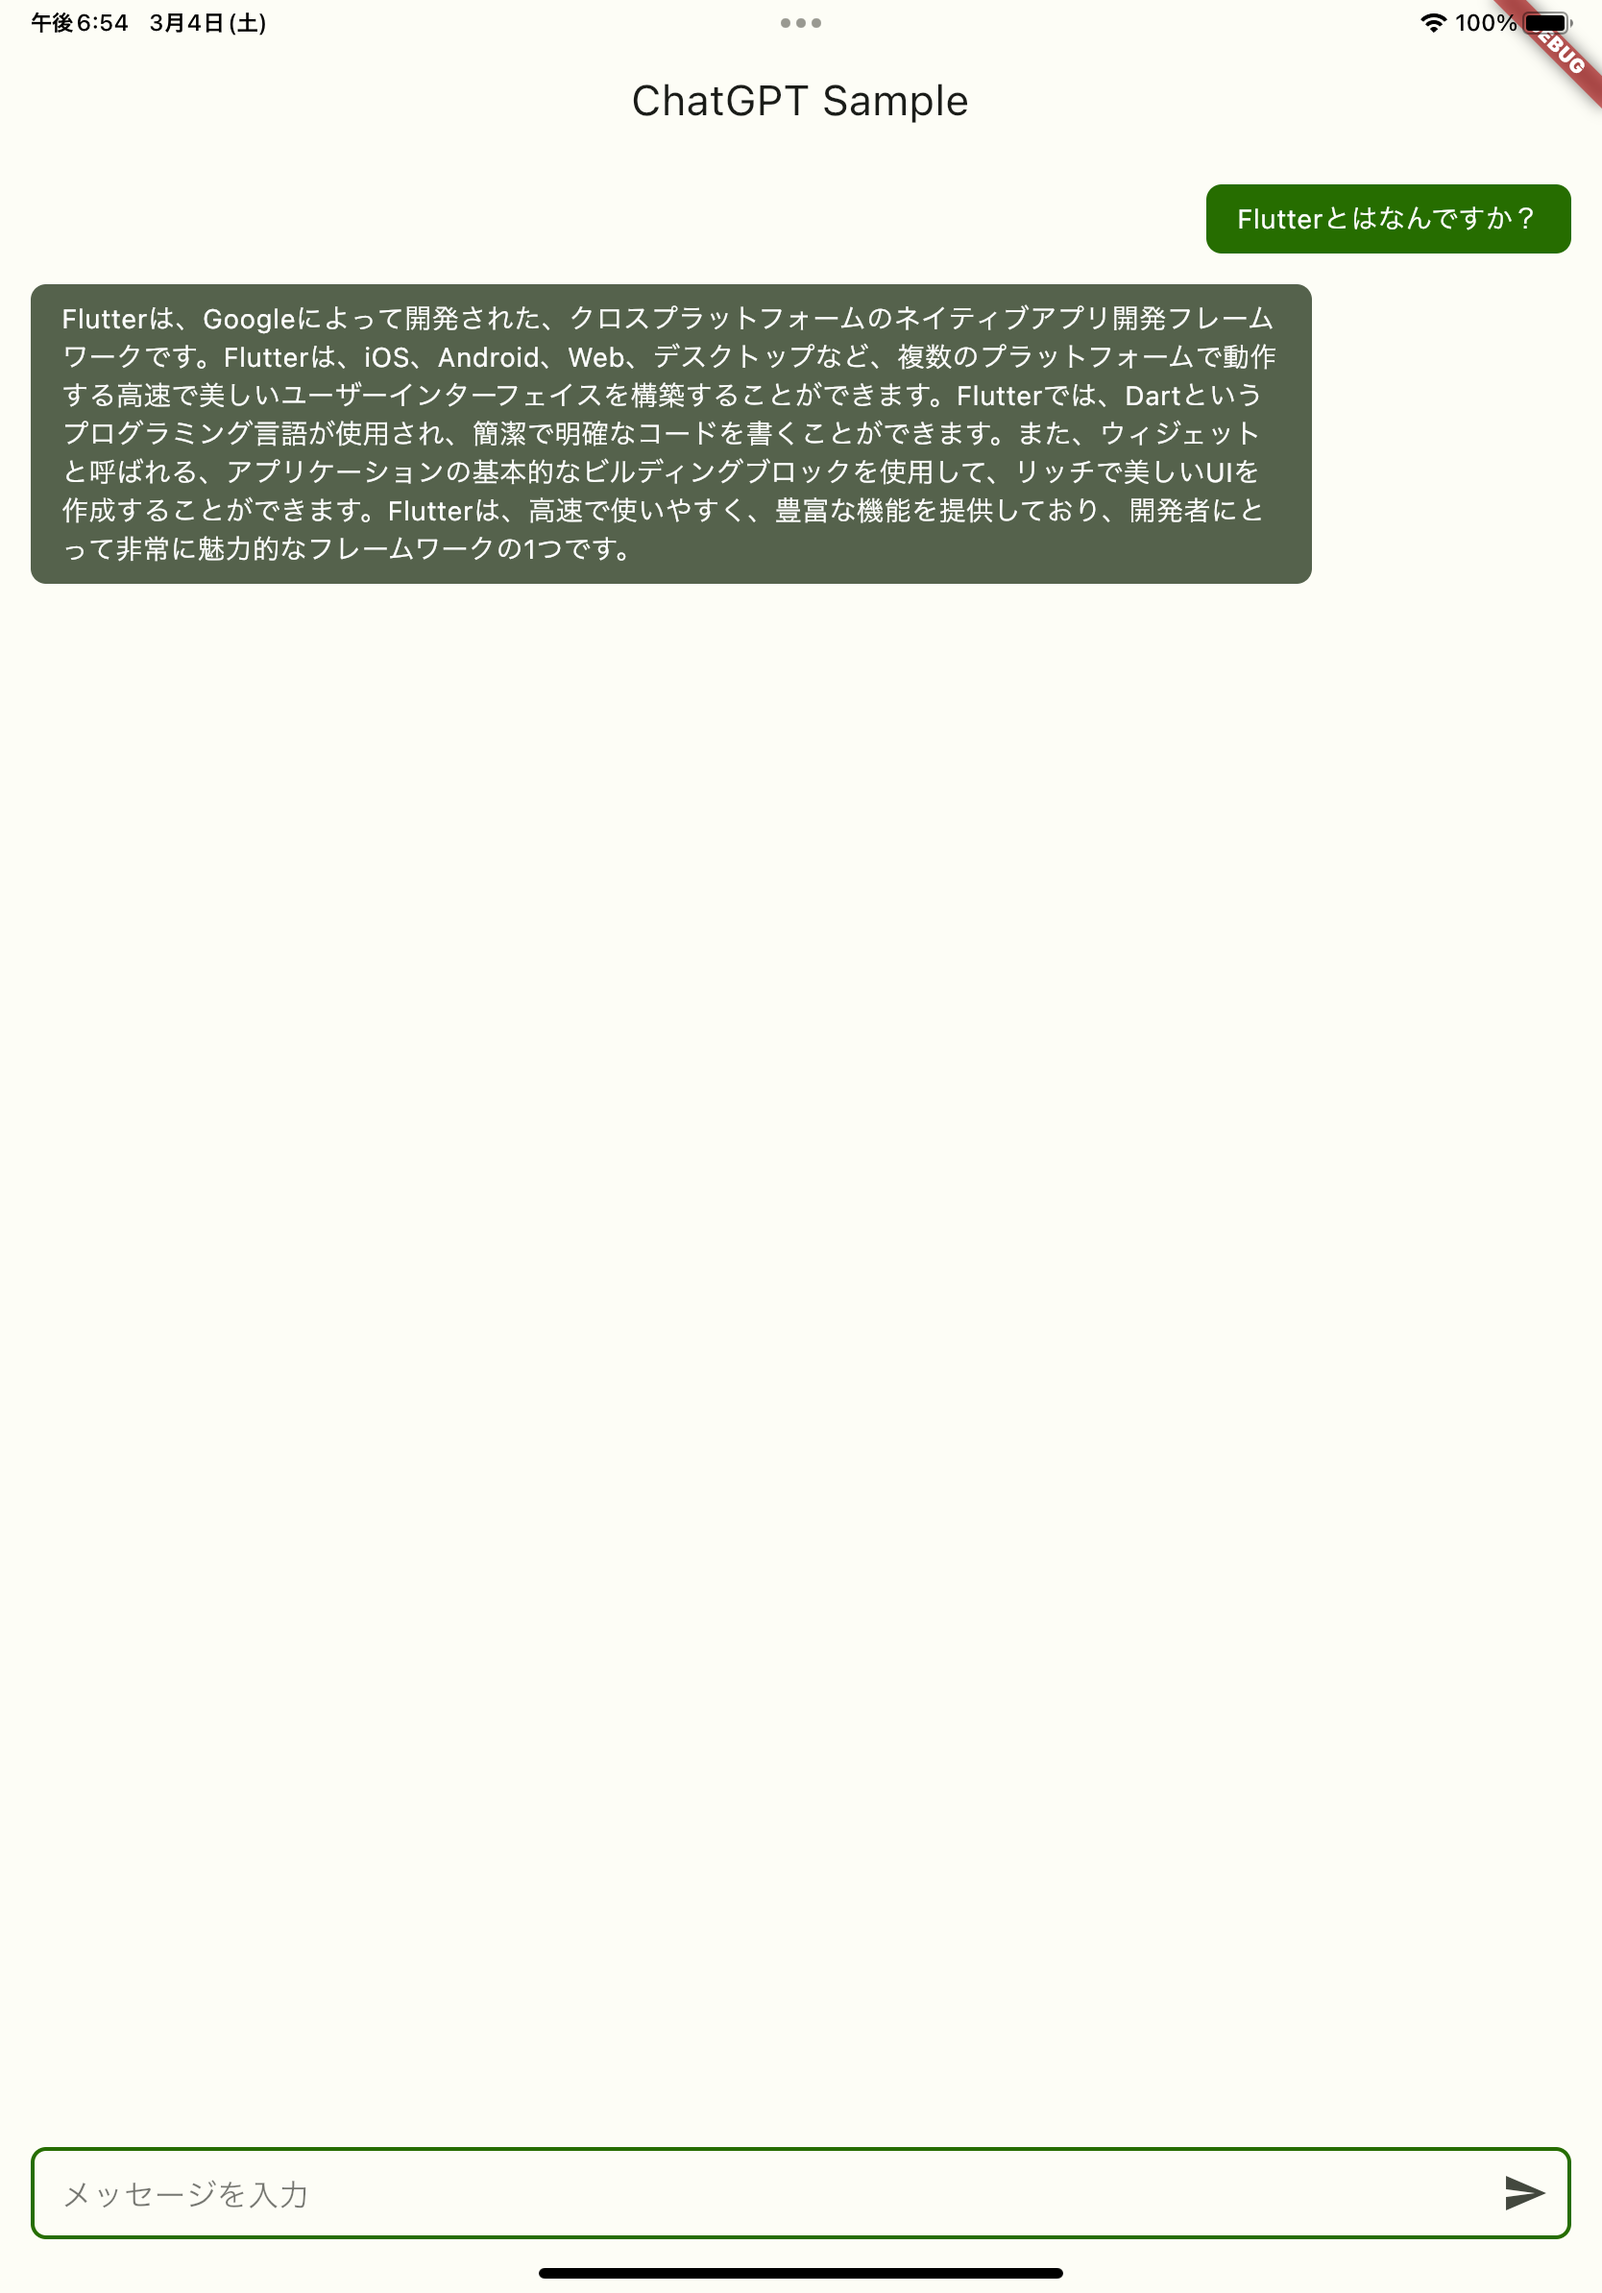
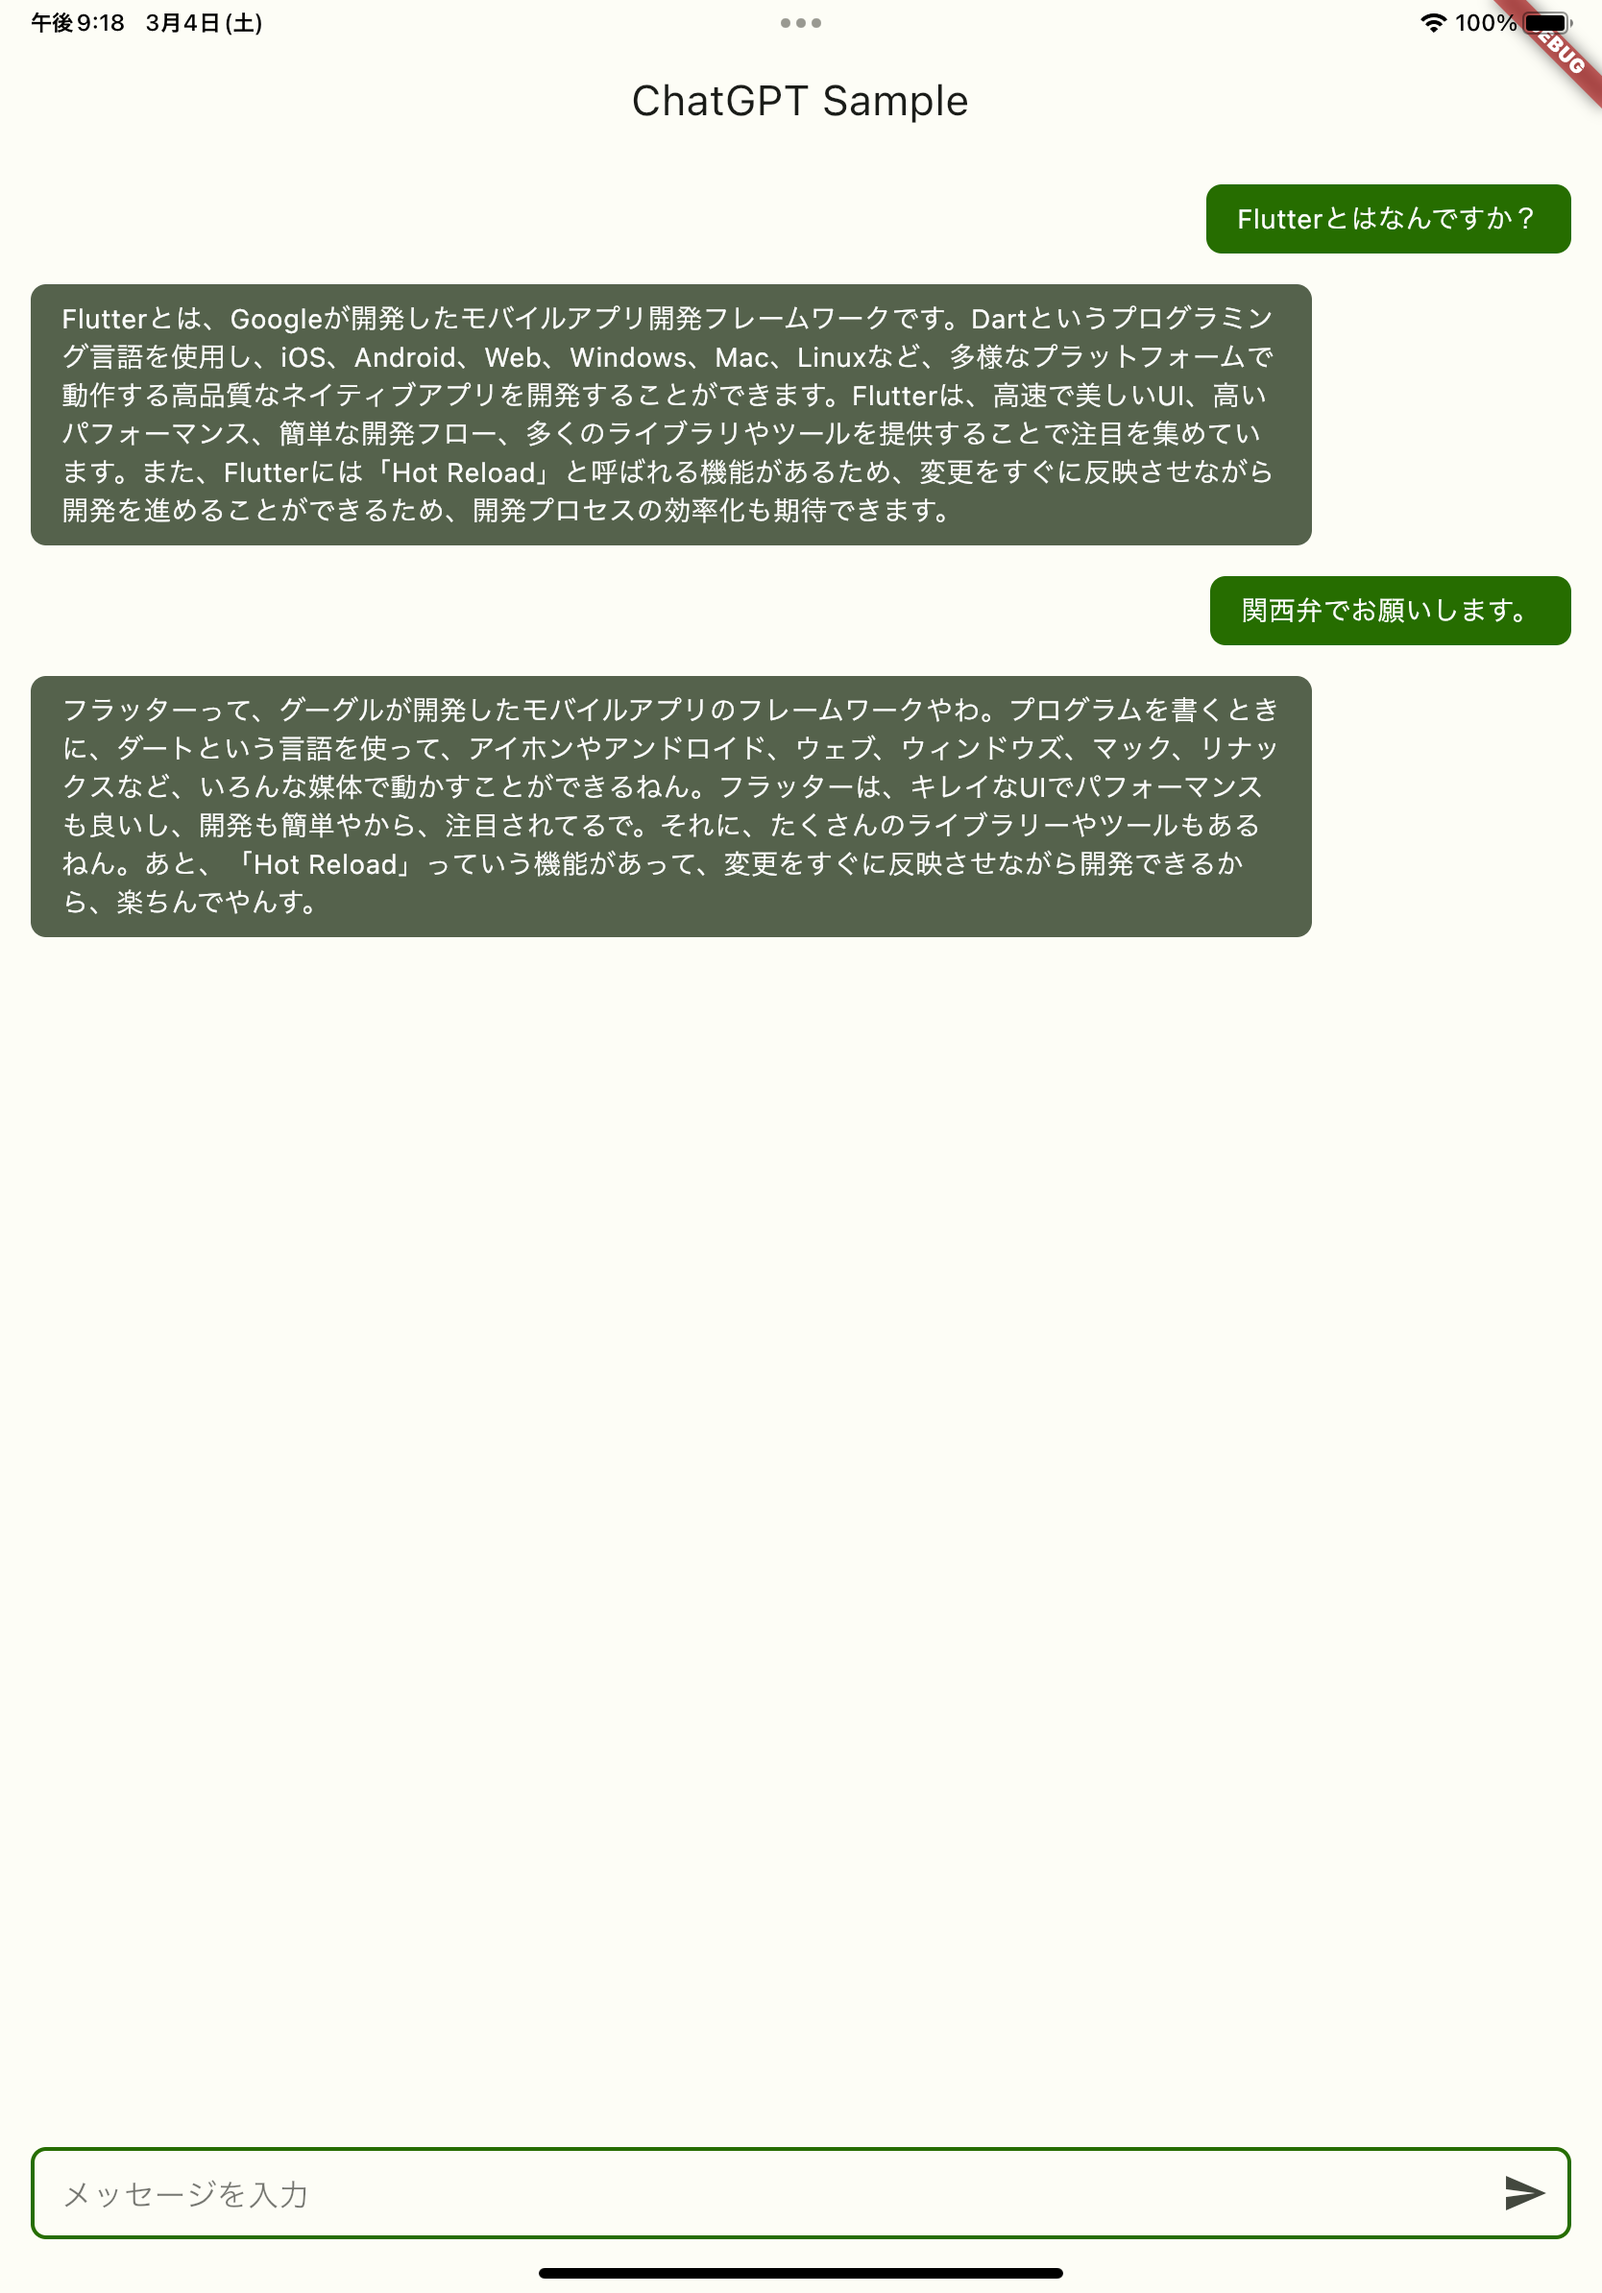
🚀

Changed region(s): [[0.0, 0.124, 0.9976, 0.4338], [0.0935, 0.0, 0.1559, 0.031]]

diff --git a/articles/25c310b2dad300.md b/articles/25c310b2dad300.md
@@ -76,6 +76,9 @@ OpenAIChatCompletionModel chatCompletion = await OpenAI.instance.chat.create(
 ```
 
 ### チャットUI作ってみた
+おなじみのriverpodを使って画面を作ります。
+
+#### Provider実装
 riverpodを使って、ChatGPTとやりとりしたメッセージのリストを状態にもち、新しいメッセージを送れるNotifierProviderを作ります。
 
 実装は以下のようになります。
@@ -118,6 +121,7 @@ class Messages extends _$Messages {
 }
 ```
 
+#### Widget実装
 先程のProviderを使うWidgetを作ります。
 
 ざっくり使用
@@ -151,6 +155,8 @@ class HomeScreen extends HookConsumerWidget {
             // メッセージ一覧
             Expanded(
               child: ListView.separated(
+                keyboardDismissBehavior:
+                    ScrollViewKeyboardDismissBehavior.onDrag,
                 padding: const EdgeInsets.symmetric(horizontal: 16),
                 itemCount: messages.length,
                 itemBuilder: (context, index) {
@@ -284,9 +290,15 @@ class HomeScreen extends HookConsumerWidget {
 }
 ```
 
+
+#### 完成🥳
 最終的にこのようになります。
 
+メッセージを送るとChatGPTが答えてくれています。
+また、もう一度メッセージを送ったときも前回の会話に基づいた返答になっています👍
+
 ![](/images/chatgpt_sample.png)
+
 
 ## まとめ
 FlutterアプリにChatGPTを組み込んでみました。
